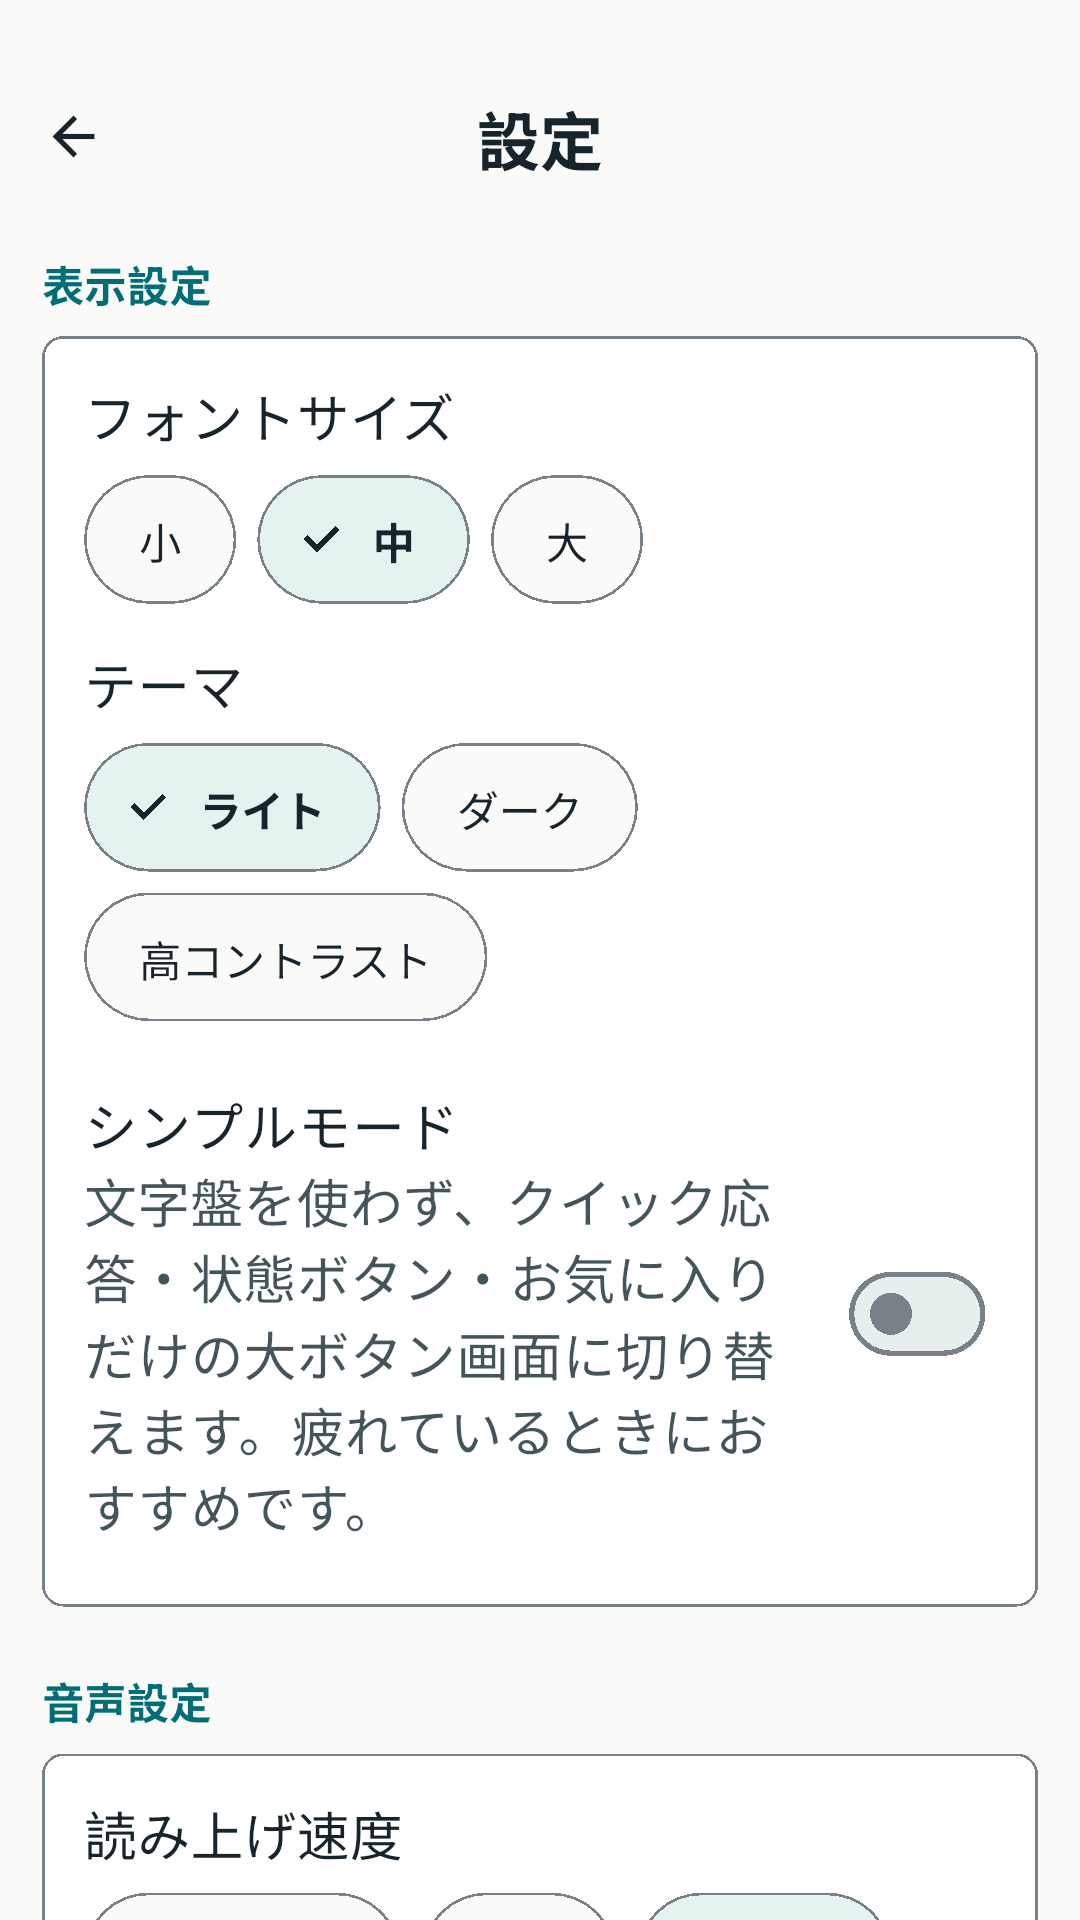
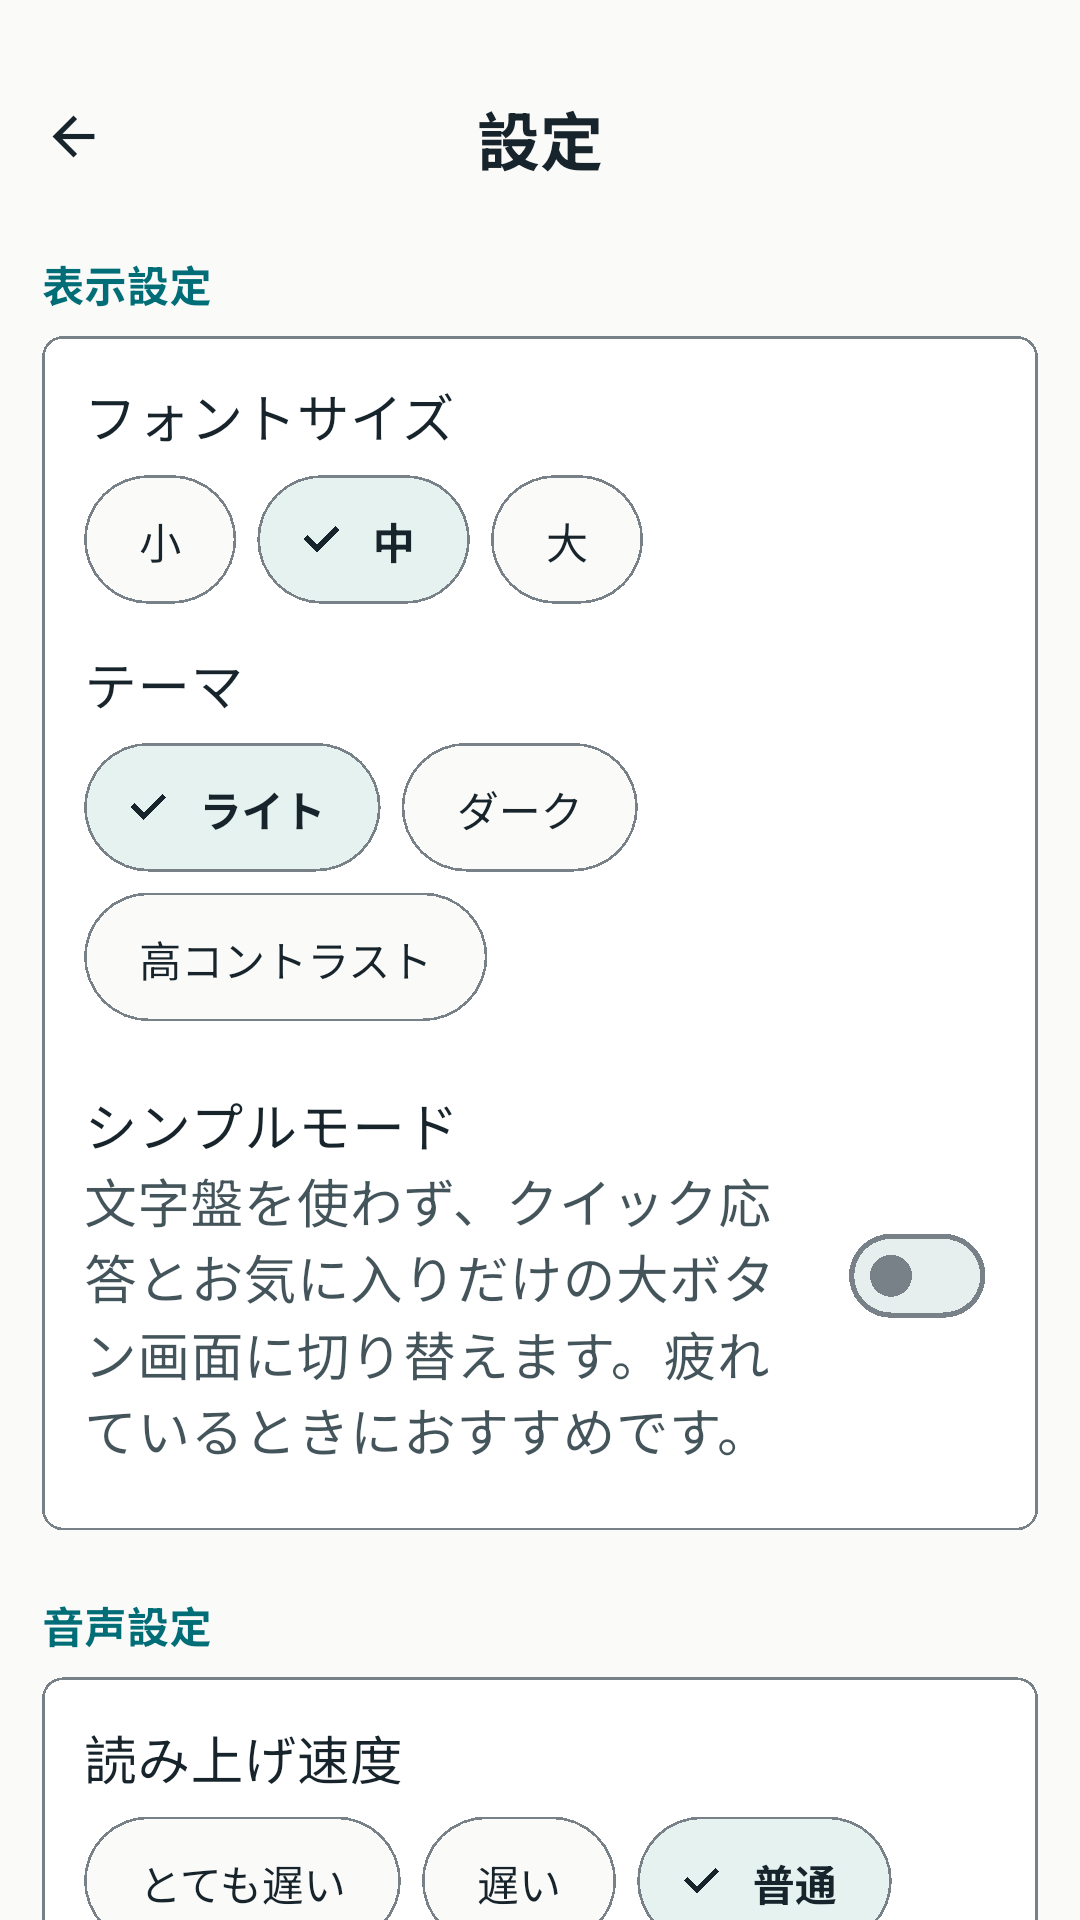
fix: シンプルモードの説明から、もう無い状態ボタンを外し、設定画面のスクリーンショットを撮り直す

diff --git a/frontend/kotonoha_app/lib/features/settings/presentation/widgets/simple_mode_settings_widget.dart b/frontend/kotonoha_app/lib/features/settings/presentation/widgets/simple_mode_settings_widget.dart
@@ -11,7 +11,7 @@ import '../../providers/settings_provider.dart';
 
 /// シンプルモード設定ウィジェット
 /// 疲労時・症状進行時など、文字盤操作が難しい場面向けに
-/// クイック応答・状態ボタン・お気に入りのみの大ボタン画面へ
+/// クイック応答・お気に入りのみの大ボタン画面へ
 /// 切り替えるための設定スイッチ。
 class SimpleModeSettingsWidget extends ConsumerWidget {
   /// コンストラクタ
@@ -31,7 +31,7 @@ class SimpleModeSettingsWidget extends ConsumerWidget {
             contentPadding: EdgeInsets.zero,
             title: const Text('シンプルモード'),
             subtitle: const Text(
-              '文字盤を使わず、クイック応答・状態ボタン・お気に入りだけの'
+              '文字盤を使わず、クイック応答とお気に入りだけの'
               '大ボタン画面に切り替えます。疲れているときにおすすめです。',
             ),
             value: settings.simpleMode,

diff --git a/frontend/kotonoha_app/test/features/settings/presentation/widgets/simple_mode_settings_widget_test.dart b/frontend/kotonoha_app/test/features/settings/presentation/widgets/simple_mode_settings_widget_test.dart
@@ -31,6 +31,24 @@ void main() {
       expect(find.byType(SwitchListTile), findsOneWidget);
     });
 
+    testWidgets('説明文はシンプルモードの画面にある区画（クイック応答・お気に入り）だけを挙げる', (tester) async {
+      await tester.pumpWidget(
+        const ProviderScope(
+          child: MaterialApp(
+            home: Scaffold(body: SimpleModeSettingsWidget()),
+          ),
+        ),
+      );
+      await tester.pumpAndSettle();
+
+      final tile = tester.widget<SwitchListTile>(find.byType(SwitchListTile));
+      final subtitle = (tile.subtitle! as Text).data!;
+      expect(subtitle, contains('クイック応答'));
+      expect(subtitle, contains('お気に入り'));
+      // 状態ボタンはホームからもシンプルモードからも外した
+      expect(subtitle, isNot(contains('状態ボタン')));
+    });
+
     testWidgets('初期状態ではスイッチはOFFである', (tester) async {
       await tester.pumpWidget(
         const ProviderScope(
